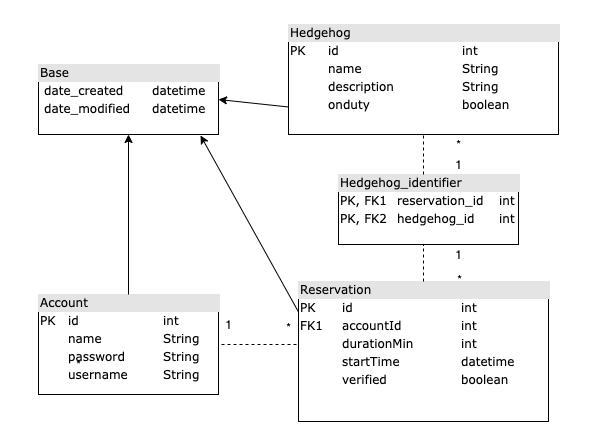
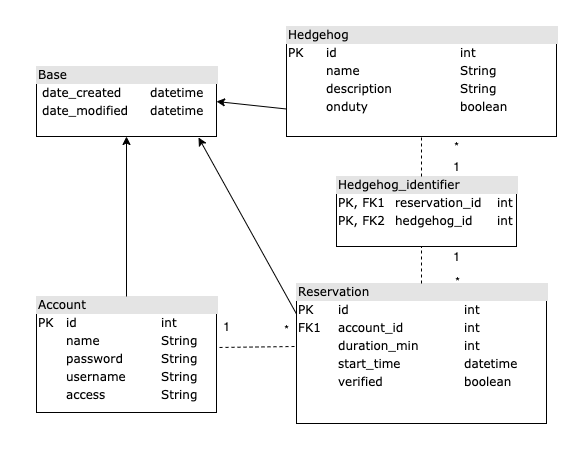
updated documentation

diff --git a/documentation/userstories.md b/documentation/userstories.md
@@ -33,6 +33,7 @@ CREATE TABLE account (\
 &nbsp;&nbsp;&nbsp;&nbsp;&nbsp;&nbsp;name VARCHAR(144) NOT NULL,\
 &nbsp;&nbsp;&nbsp;&nbsp;&nbsp;&nbsp;username VARCHAR(144) NOT NULL,\
 &nbsp;&nbsp;&nbsp;&nbsp;&nbsp;&nbsp;password VARCHAR(144) NOT NULL,\
+&nbsp;&nbsp;&nbsp;&nbsp;&nbsp;&nbsp;access VARCHAR(144) NOT NULL,\
 &nbsp;&nbsp;&nbsp;&nbsp;&nbsp;&nbsp;PRIMARY KEY (id)\
 )
 
@@ -40,12 +41,12 @@ CREATE TABLE reservation (\
 &nbsp;&nbsp;&nbsp;&nbsp;&nbsp;&nbsp;id INTEGER NOT NULL,\
 &nbsp;&nbsp;&nbsp;&nbsp;&nbsp;&nbsp;date_created DATETIME,\
 &nbsp;&nbsp;&nbsp;&nbsp;&nbsp;&nbsp;date_modified DATETIME,\
-&nbsp;&nbsp;&nbsp;&nbsp;&nbsp;&nbsp;"startTime" DATETIME NOT NULL,\
-&nbsp;&nbsp;&nbsp;&nbsp;&nbsp;&nbsp;"durationMin" INTEGER NOT NULL,\
-&nbsp;&nbsp;&nbsp;&nbsp;&nbsp;&nbsp;"accountId" INTEGER NOT NULL,\
+&nbsp;&nbsp;&nbsp;&nbsp;&nbsp;&nbsp;start_time DATETIME NOT NULL,\
+&nbsp;&nbsp;&nbsp;&nbsp;&nbsp;&nbsp;duration_min INTEGER NOT NULL,\
+&nbsp;&nbsp;&nbsp;&nbsp;&nbsp;&nbsp;account_id INTEGER NOT NULL,\
 &nbsp;&nbsp;&nbsp;&nbsp;&nbsp;&nbsp;verified BOOLEAN NOT NULL,\
 &nbsp;&nbsp;&nbsp;&nbsp;&nbsp;&nbsp;PRIMARY KEY (id),\
-&nbsp;&nbsp;&nbsp;&nbsp;&nbsp;&nbsp;FOREIGN KEY("accountId") REFERENCES account (id),\
+&nbsp;&nbsp;&nbsp;&nbsp;&nbsp;&nbsp;FOREIGN KEY(account_id) REFERENCES account (id),\
 &nbsp;&nbsp;&nbsp;&nbsp;&nbsp;&nbsp;CHECK (verified IN (0, 1))\
 )
 
